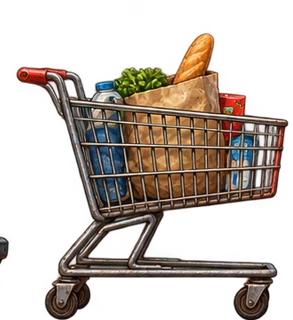
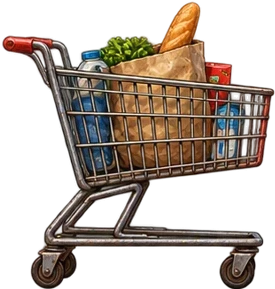
Clean sprite atlas edges and record visual gameplay QA

diff --git a/docs/rv-road-trip-visual-qa.md b/docs/rv-road-trip-visual-qa.md
@@ -1,0 +1,26 @@
+# RV Road Trip visual upgrade QA
+
+Scope: isolated prototype/rv-road-trip-mayhem-reboot only. No main merge or production release.
+
+## Changes
+- Painted sprites replace all eight current obstacle renderers; collision sizes unchanged.
+- Painted lodge, garage, diner, campsite and cactus assets.
+- Midground pines use the same terrain profile and parallax coordinates as their bank; roots masked by terrain.
+- Near vegetation/buildings anchored to visible terrain with contact shadows/root cover; irregular spacing.
+- Ramp rendering has deck boards, grain, supports, braces, metal plates and bolts; physical ramp geometry unchanged.
+- Gravel/soil detail and vegetation blend shoulder edges.
+- Cleared small neighboring atlas fragments after browser art-sheet inspection.
+
+## Verification
+- JavaScript syntax and diff whitespace checks pass.
+- Exact source comparison confirms update(), hill/ground/slope functions unchanged from pre-art build (physics/collisions/jumps/layout preserved).
+- Browser Alpine drive reached x=14555, time=25.15s: 3 jump actions, 1 double jump, 4 landings; collisions and roadside recovery exercised. Town buildings and timber ramp visibly inspected.
+- Browser Red Rock opening reached x=1630, time=2.57s: 2 jumps, 1 double jump; painted tire/cactus art inspected.
+- All 13 painted assets reviewed in browser contact sheet; crop fragments identified and cleaned.
+- Cloud input/frame scheduling advances game time much slower than wall time. These are partial gameplay checks, not completed full-level runs or real-device performance certification.
+
+## Remaining validation
+Full runs of both levels, final campsite/finish transition, physical iPad multi-touch and Chromebook performance remain unverified. No claim of completion for those checks.
+
+## Asset provenance
+Built-in image-generation tool. Prompts specified transparent side-view painted arcade realism atlases: nine roadside props (car, cart, tire, barrier, cones, junk, branch, cooler, cactus) and four buildings (lodge, garage, diner, campsite). Assets extracted to optimized WebP under public/brain-arcade/rv-road-trip-mayhem/assets/painted-*.webp. Original full atlases remain separate from production asset files.
